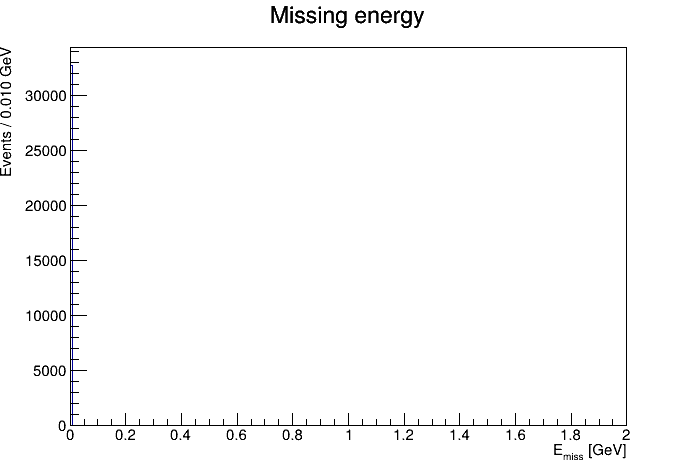
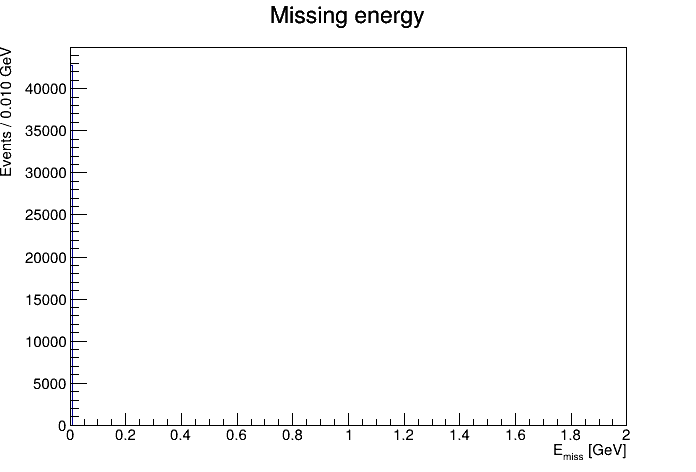
minor changes until 4.6

diff --git a/part2_KinFit/ZcAnalysis.C b/part2_KinFit/ZcAnalysis.C
@@ -205,19 +205,19 @@ TH1D* h_mJpsi_recoil_afterConversion = new TH1D(
 // After chi^2 cut
 TH1D* h_mJpsi_e_afterChi2 = new TH1D(
 "h_mJpsi_e_afterChi2",
-"J/#psi mass e^{+}e^{-} after #chi^{2} cut;Mass [GeV];Events",
+"J/#psi invariant mass after all selection cuts (e^{+}e^{-});Mass [GeV];Events",
 100,2.9,3.2
 );
 
 TH1D* h_mJpsi_mu_afterChi2 = new TH1D(
 "h_mJpsi_mu_afterChi2",
-"J/#psi mass #mu^{+}#mu^{-} after #chi^{2} cut;Mass [GeV];Events",
+"J/#psi invariant mass after all selection cuts (#mu^{+}#mu^{-});Mass [GeV];Events",
 100,2.9,3.2
 );
 
 TH1D* h_mJpsi_recoil_afterChi2 = new TH1D(
 "h_mJpsi_recoil_afterChi2",
-"J/#psi recoil mass after #chi^{2} cut;Mass [GeV];Events",
+"J/#psi invariant mass after all selection cuts (recoil);Mass [GeV];Events",
 100,2.9,3.2
 );
 //Problem 2.4
@@ -369,15 +369,14 @@ if(muonEvent)
     h_mJpsi_mu_afterBhabha->Fill(Jpsi_temp.M());
 
 P4E recoil_bhabha = pCMS - pions_temp;
-h_mJpsi_recoil_afterBhabha->Fill(recoil_bhabha.M());
 
+if (electronEvent)
+    h_mJpsi_recoil_afterBhabha->Fill(recoil_bhabha.M());
 // invariant mass after bhabha cut
 h1_mJpsi_pipi_afterBhabha->Fill(total_temp.M());
 // problem 3.3
 // reconstruct J/psi from pion recoil
 
-if (!(electronEvent || muonEvent))
-continue;
 
 P4E pions_recoil = pi_plus + pi_minus;
 P4E pJpsi_recoil = pCMS - pions_recoil;
@@ -399,12 +398,18 @@ P4E pions = pi_plus + pi_minus;
 P4E total = Jpsi + pions;
 // problem 4.5
 // ---- photon conversion rejection ----
-if (cos_epi_minus > 0.95 || cos_pie_minus > 0.95 || cos_pipi > 0.95)
-    continue;
+if (electronEvent)
+{
+    if (cos_epi_minus > 0.98 || cos_pie_minus > 0.98)
+        continue;
+}
 
 // problem 4.6
+// electrons → affected by conversion cut
 if (electronEvent) N_conv_e++;
-if (muonEvent)     N_conv_mu++;
+
+// muons → unchanged from Bhabha stage
+//if (muonEvent) N_conv_mu++;
 // AFTER CONVERSION CUT
 
 if(electronEvent)
@@ -414,7 +419,9 @@ if(muonEvent)
     h_mJpsi_mu_afterConversion->Fill(Jpsi.M());
 
 P4E recoil_conv = pCMS - pions;
-h_mJpsi_recoil_afterConversion->Fill(recoil_conv.M());
+
+if (electronEvent)
+    h_mJpsi_recoil_afterConversion->Fill(recoil_conv.M());
 // fill invariant mass after conversion cut
 h1_mJpsi_pipi_afterConversion->Fill(total.M());
 
@@ -449,7 +456,9 @@ if(muonEvent)
     h_mJpsi_mu_afterChi2->Fill(Jpsi.M());
 
 P4E recoil_chi2 = pCMS - pions;
-h_mJpsi_recoil_afterChi2->Fill(recoil_chi2.M());
+
+if (electronEvent)
+    h_mJpsi_recoil_afterChi2->Fill(recoil_chi2.M());
 selectedEvents++;   
 
 
@@ -507,8 +516,8 @@ std::cout << "\n=== MUONS ===" << std::endl;
 std::cout << "Initial: " << Ni_mu << std::endl;
 std::cout << "After Bhabha: " << N_bhabha_mu 
           << "  eff = " << (double)N_bhabha_mu/Ni_mu << std::endl;
-std::cout << "After Conversion: " << N_conv_mu 
-          << "  eff = " << (double)N_conv_mu/Ni_mu << std::endl;
+std::cout << "After Conversion: " << N_bhabha_mu 
+          << "  eff = " << (double)N_bhabha_mu/Ni_mu << std::endl;
 std::cout << "After Chi2: " << N_chi2_mu 
           << "  eff = " << (double)N_chi2_mu/Ni_mu << std::endl;
 double Ni_gen_e = 500623.0;
@@ -896,9 +905,9 @@ h_mJpsi_e_afterBhabha->SetLineColor(kRed);
 h_mJpsi_mu_afterBhabha->SetLineColor(kBlue);
 h_mJpsi_recoil_afterBhabha->SetLineColor(kMagenta);
 
-h_mJpsi_recoil_afterBhabha->Draw();
-h_mJpsi_e_afterBhabha->Draw("same");
-h_mJpsi_mu_afterBhabha->Draw("same");
+h_mJpsi_e_afterBhabha->DrawNormalized();
+h_mJpsi_mu_afterBhabha->DrawNormalized("same");
+h_mJpsi_recoil_afterBhabha->DrawNormalized("same");
 
 TLegend* leg = new TLegend(0.15,0.7,0.35,0.85);
 leg->AddEntry(h_mJpsi_e_afterBhabha,"e^{+}e^{-}","l");
@@ -916,9 +925,9 @@ h_mJpsi_e_afterConversion->SetLineColor(kRed);
 h_mJpsi_mu_afterConversion->SetLineColor(kBlue);
 h_mJpsi_recoil_afterConversion->SetLineColor(kMagenta);
 
-h_mJpsi_recoil_afterConversion->Draw();
-h_mJpsi_e_afterConversion->Draw("same");
-h_mJpsi_mu_afterConversion->Draw("same");
+h_mJpsi_e_afterConversion->DrawNormalized();
+h_mJpsi_mu_afterConversion->DrawNormalized("same");
+h_mJpsi_recoil_afterConversion->DrawNormalized("same");
 
 TLegend* leg = new TLegend(0.15,0.7,0.35,0.85);
 leg->AddEntry(h_mJpsi_e_afterConversion,"e^{+}e^{-}","l");
@@ -950,10 +959,10 @@ Form("Events / %.3f GeV", binWidth)
 );
 
 // draw spectra
-h_mJpsi_e_afterChi2->Draw();
-h_mJpsi_mu_afterChi2->Draw("same");
-h_mJpsi_recoil_afterChi2->Draw("same");
-
+// draw normalized 
+h_mJpsi_e_afterChi2->DrawNormalized();
+h_mJpsi_mu_afterChi2->DrawNormalized("same");
+h_mJpsi_recoil_afterChi2->DrawNormalized("same");
 // legend
 TLegend* leg_chi2 = new TLegend(0.15,0.70,0.35,0.85);
 leg_chi2->AddEntry(h_mJpsi_e_afterChi2,"e^{+}e^{-}","l");
@@ -961,7 +970,7 @@ leg_chi2->AddEntry(h_mJpsi_mu_afterChi2,"#mu^{+}#mu^{-}","l");
 leg_chi2->AddEntry(h_mJpsi_recoil_afterChi2,"Recoil(#pi^{+}#pi^{-})","l");
 leg_chi2->Draw();
 
-canvas_chi2->SaveAs(savePath + "Jpsi_mass_afterChi2Cut.png");
+canvas_chi2->SaveAs(savePath + "Jpsi_mass_after_all_cuts.png");
 }
       }
 
